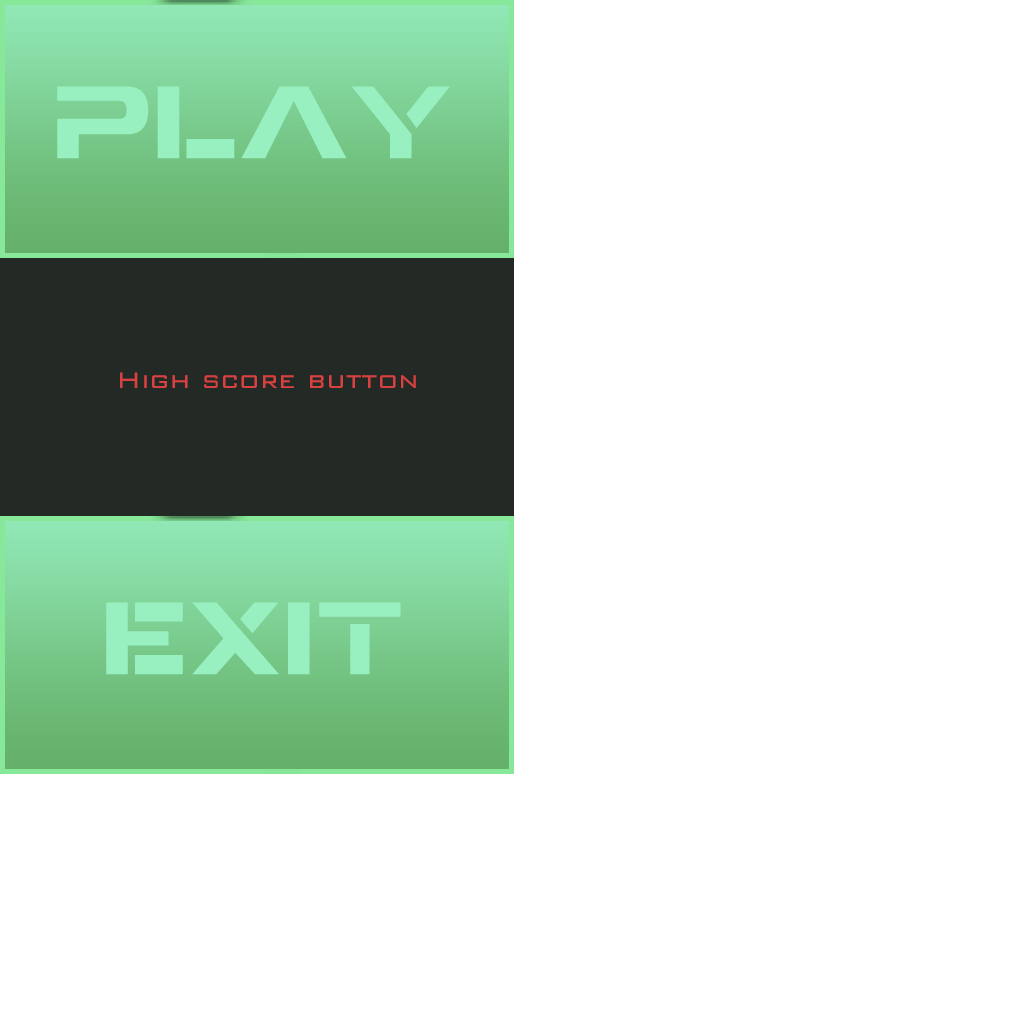
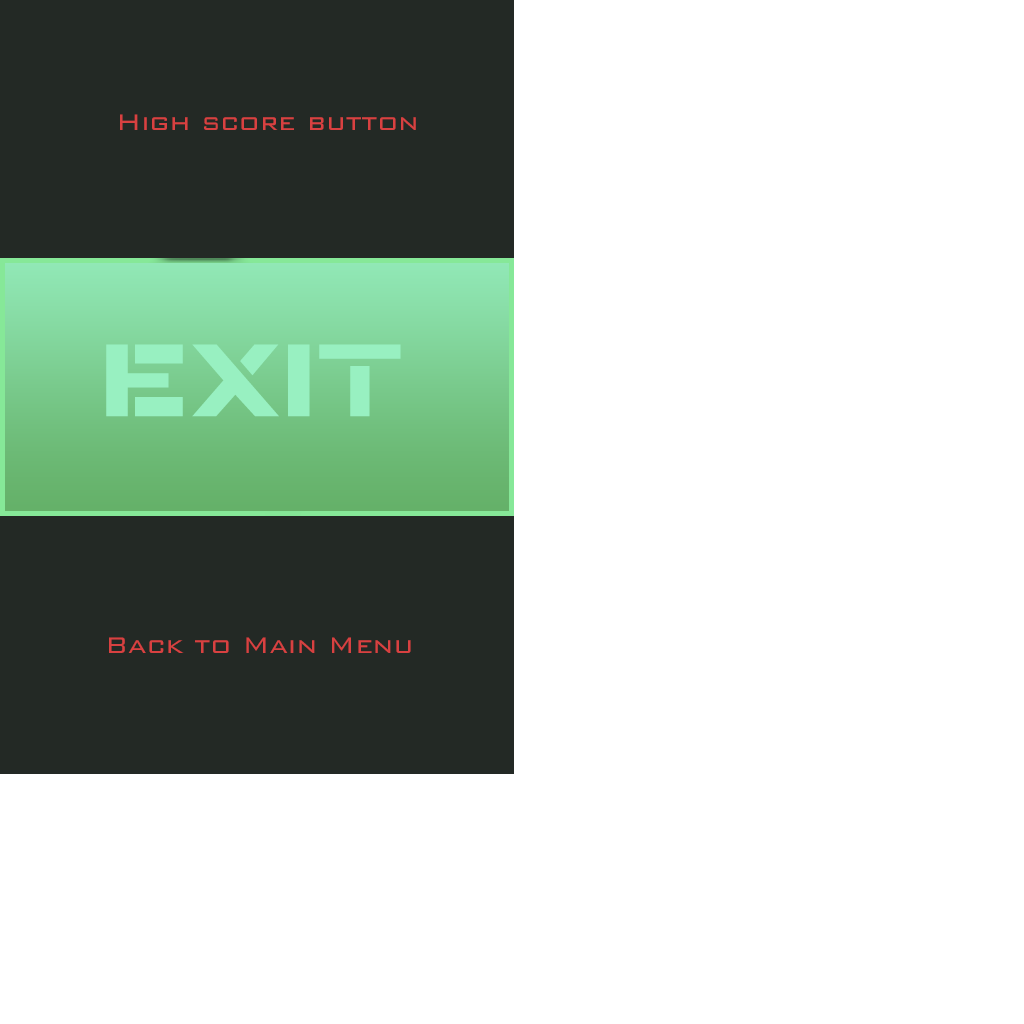
Added HighScore Screen
Also added more teporary icons

diff --git a/Stratofall/src/com/me/stratofall/screens/HighscoreScreen.java b/Stratofall/src/com/me/stratofall/screens/HighscoreScreen.java
@@ -12,12 +12,15 @@ import com.badlogic.gdx.graphics.GL20;
 import com.badlogic.gdx.graphics.OrthographicCamera;
 import com.badlogic.gdx.graphics.g2d.BitmapFont;
 import com.badlogic.gdx.graphics.g2d.TextureAtlas;
+import com.badlogic.gdx.scenes.scene2d.InputEvent;
 import com.badlogic.gdx.scenes.scene2d.Stage;
 import com.badlogic.gdx.scenes.scene2d.ui.Button;
 import com.badlogic.gdx.scenes.scene2d.ui.Label;
 import com.badlogic.gdx.scenes.scene2d.ui.Skin;
 import com.badlogic.gdx.scenes.scene2d.ui.Table;
+import com.badlogic.gdx.scenes.scene2d.ui.Button.ButtonStyle;
 import com.badlogic.gdx.scenes.scene2d.ui.Label.LabelStyle;
+import com.badlogic.gdx.scenes.scene2d.utils.ClickListener;
 import com.me.stratofall.Stratofall;
 
 public class HighscoreScreen implements Screen {
@@ -28,9 +31,10 @@ public class HighscoreScreen implements Screen {
 	private Stage stage;
 	private TextureAtlas atlas;
 	private Skin skin;
-	private Table table;
+	private Table outterTable, innerTable;
+	private Button buttonBack;
 	private BitmapFont white;
-	private Label heading, scoreText;
+	private Label topHeading, subLabelHeading, playerScore, playerName, playerDistance;
 	
 //	Preferences prefs = Gdx.app.getPreferences("my-preferences");
 	
@@ -82,29 +86,76 @@ public class HighscoreScreen implements Screen {
 		
 		atlas = new TextureAtlas("ui/button.pack");
 		skin = new Skin(atlas);
-		table = new Table(skin);
-		table.setBounds(0, 0, Gdx.graphics.getWidth(), Gdx.graphics.getHeight());
+		outterTable = new Table(skin);
+		outterTable.setBounds(0, 0, Gdx.graphics.getWidth(), Gdx.graphics.getHeight());
+		
+		innerTable = new Table(skin);
+		innerTable.setBounds(0, 0, outterTable.getMaxWidth(), outterTable.getHeight());
 		
 		//create font
 		white = new BitmapFont(Gdx.files.internal("fonts/white.fnt"), false);
 		
 		LabelStyle headingStyle = new LabelStyle(white, Color.WHITE);
 		
-		heading = new Label("High Scores", headingStyle);
-		heading.setFontScale(3f); //change the text size basically
+		topHeading = new Label("High Scores", headingStyle);
+		topHeading.setFontScale(3f); //change the text size basically
 		
-		table.add(heading).padBottom(150); //adds a 150px margin below this cell and the next
-		table.row();
+		outterTable.add(topHeading).padBottom(150); //adds a 150px margin below this cell and the next
+		outterTable.row();
+		
+		//Labels the categories of the score fields
+		subLabelHeading = new Label("Player Name", headingStyle);
+		subLabelHeading.setScale(2f);
+		innerTable.add(subLabelHeading);
+		subLabelHeading = new Label("Distance", headingStyle);
+		innerTable.add(subLabelHeading);
+		subLabelHeading = new Label("Score", headingStyle);
+		innerTable.add(subLabelHeading);
+		innerTable.row();
 		
 		ArrayList<Score> scores = getHighScores();
 		
+		//Prints out the scores of the players
 		for (Score score : scores)
 		{
-			scoreText = new Label(score.getName() + "\t" + score.getDistance() + "\t" + score.getScore(), headingStyle);
-			scoreText.setScale(2f);
-			table.add(scoreText);
-			table.row();
+			playerName = new Label(score.getName(), headingStyle);
+			playerName.setScale(2f);
+			innerTable.add(playerName);
+			
+			playerDistance = new Label(score.getDistance() + "", headingStyle);
+			playerDistance.setScale(2f);
+			innerTable.add(playerDistance);
+			
+			playerScore = new Label(score.getScore() + "" , headingStyle);
+			playerScore.setScale(2f);
+			innerTable.add(playerScore);
+			
+			innerTable.row();
 		}
+		//Just for debugging
+		outterTable.debug();
+		innerTable.debug();
+		
+		outterTable.add(innerTable); //add the innertable to the outertable
+		outterTable.row();
+		
+		//creating buttons
+		ButtonStyle textButtonStyleBACK = new ButtonStyle();
+		textButtonStyleBACK.up = skin.getDrawable("back_to_main_menu_button"); //button released
+		textButtonStyleBACK.down = skin.getDrawable("back_to_main_menu_button"); //button pressed
+		
+		buttonBack = new Button(textButtonStyleBACK);
+		buttonBack.addListener(new ClickListener()
+		{
+			public void clicked(InputEvent event, float x, float y)
+			{
+				game.setScreen(new MainMenuScreen(game));
+			}
+		});
+		
+		outterTable.add(buttonBack).padTop(150); //contains our button
+		
+		stage.addActor(outterTable);
 		
 	}
 

diff --git a/Stratofall/src/com/me/stratofall/screens/GameScreen.java b/Stratofall/src/com/me/stratofall/screens/GameScreen.java
@@ -13,6 +13,7 @@ import com.badlogic.gdx.graphics.Texture;
 import com.badlogic.gdx.utils.Array;
 import com.badlogic.gdx.utils.TimeUtils;
 import com.me.stratofall.Player;
+import com.me.stratofall.ScrollingLayer;
 import com.me.stratofall.Stratofall;
 
 /**
@@ -31,6 +32,7 @@ public class GameScreen implements Screen
 	private Music windMusic;
 	private Texture backgroundImage;
 	private Texture fogImage;
+	private ScrollingLayer fogLayer;
 	
 	private float background_y = -2560; //starting position
 	private float background_rate = .25f; //the rate at which the background progresses up the screen
@@ -60,6 +62,7 @@ public class GameScreen implements Screen
 		//load images
 		backgroundImage = Stratofall.assets.get("backgrounds/background.jpg", Texture.class);
 		fogImage = Stratofall.assets.get("backgrounds/background_fog.png", Texture.class);
+		fogLayer = new ScrollingLayer(fogImage, 5f);
 		
 		//load sounds (should be background noises, other sounds should be loaded within their respective classes)
 		windMusic = Stratofall.assets.get("sounds/background/background_wind.wav", Music.class);
@@ -101,9 +104,11 @@ public class GameScreen implements Screen
         game.batch.draw(backgroundImage, 0, background_y);
         game.batch.end();
         player.draw(delta);
-//        game.batch.begin();
-//        game.batch.draw(fogImage, 0, fog_y);
-//        game.batch.end();
+        
+        fogLayer.draw(game);
+        game.batch.begin();
+        //game.batch.draw(fogImage, 0, fog_y);
+        game.batch.end();
         
         
         for (Cloud cloud : clouds)

diff --git a/Stratofall/src/objects/LightningCloud.java b/Stratofall/src/objects/LightningCloud.java
@@ -11,6 +11,7 @@ import com.me.stratofall.Stratofall;
 
 public class LightningCloud extends Cloud
 {
+	
 	public LightningCloud(Player p)
 	{
 		player = p;
@@ -38,6 +39,7 @@ public class LightningCloud extends Cloud
 	@Override
 	public void checkCollisions()
 	{
+		
 		if(getLocation().overlaps(player.getLocation())) //if collides with player
 		{
 			//player.setLocation(new Vector2(player.getLocation().x, 1100)); //visible collision check
